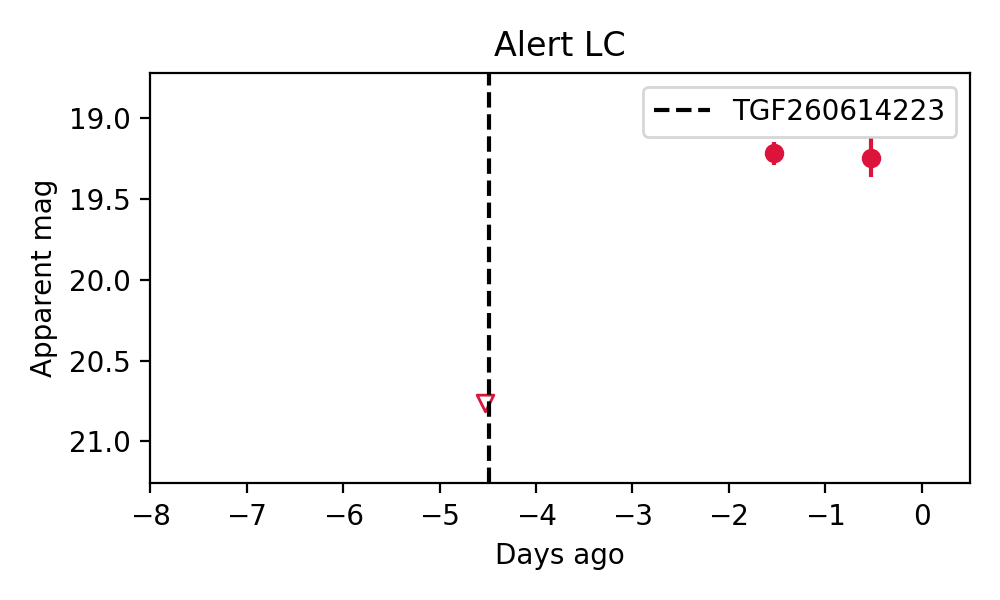
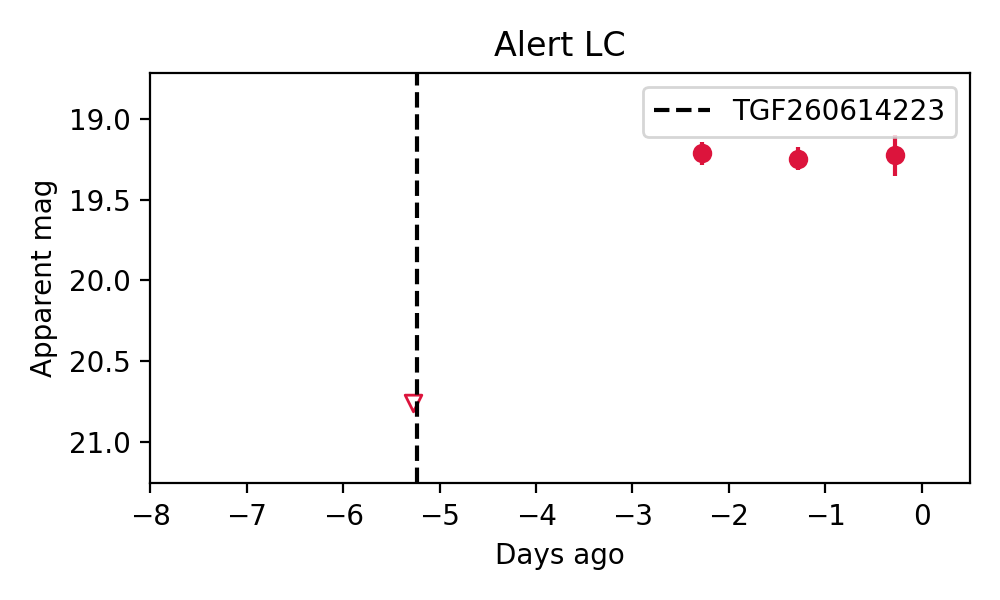
Update HTML from cron job on Fri Jun 19 07:27:29 AM EDT 2026

diff --git a/html/20260619_fastcand.html b/html/20260619_fastcand.html
@@ -1,1 +1,2 @@
-<!doctype html><html><head><title>SOURCE MARSHAL</title><style>                  * {                     box-sizing: border-box;                  }                /* Create two equal columns that floats next to each other */                .column {                         float: left;                         width: 50%;                         padding: 10px;                         #height: 220px; /* Should be removed. Only for demonstration */                }                /* Clear floats after the columns */                .row:after {                        content: "";                        display: table;                        clear: both;                }                /* Rounded corner definition */                #rcorners2 {                    border-radius: 15px;                    border: 2px solid #73AD21;                    padding: 15px;                     width: 80%;                }                table, th, td {                    border: 1px solid black;                    border-collapse: collapse;                }                th, td {                    padding: 5px;                }                th {                    text-align: right;                }                .boxed {                    width: 300px;                    border: 3px outset green;                    text-align: center;                    font-size: 20px;                    margin: 10px;                }                 </style></head><body><font size="5" color="green">Candidate List 20260619</font></br></br><a href=20260618_fastcand.html target="_blank"><font size="3" color="green">Previous Day</font></a>&nbsp;&nbsp;&nbsp;&nbsp;<a href=20260620_fastcand.html target="_blank"><font size="3" color="green">Next Day</font></a>&nbsp;&nbsp;&nbsp;&nbsp;<br><br><font size="4" color="green"><a href="#sec1">Section 1: New Sources (age<1d)</a></font>&nbsp;&nbsp;&nbsp;&nbsp;<button onclick="myfunc1()">Cosmological Afterglow</button><p id="demo1"></p><script>function myfunc1() {document.getElementById("demo1").innerHTML = "Sources detected for the first time last night. Matches with Fermi GRBs are shown in a green box."}</script><font size="4" color="green"><a href="#sec2">Section 2: Old (1-5d) sources observed last night</a></font></br><font size="1" color="white">placeholder</font></br><hr style="width:50%;text-align:left;margin-left:0"><br>
+<!doctype html><html><head><title>SOURCE MARSHAL</title><style>                  * {                     box-sizing: border-box;                  }                /* Create two equal columns that floats next to each other */                .column {                         float: left;                         width: 50%;                         padding: 10px;                         #height: 220px; /* Should be removed. Only for demonstration */                }                /* Clear floats after the columns */                .row:after {                        content: "";                        display: table;                        clear: both;                }                /* Rounded corner definition */                #rcorners2 {                    border-radius: 15px;                    border: 2px solid #73AD21;                    padding: 15px;                     width: 80%;                }                table, th, td {                    border: 1px solid black;                    border-collapse: collapse;                }                th, td {                    padding: 5px;                }                th {                    text-align: right;                }                .boxed {                    width: 300px;                    border: 3px outset green;                    text-align: center;                    font-size: 20px;                    margin: 10px;                }                 </style></head><body><font size="5" color="green">Candidate List 20260619</font></br></br><a href=20260618_fastcand.html target="_blank"><font size="3" color="green">Previous Day</font></a>&nbsp;&nbsp;&nbsp;&nbsp;<a href=20260620_fastcand.html target="_blank"><font size="3" color="green">Next Day</font></a>&nbsp;&nbsp;&nbsp;&nbsp;<br><br><font size="4" color="green"><a href="#sec1">Section 1: New Sources (age<1d)</a></font>&nbsp;&nbsp;&nbsp;&nbsp;<button onclick="myfunc1()">Cosmological Afterglow</button><p id="demo1"></p><script>function myfunc1() {document.getElementById("demo1").innerHTML = "Sources detected for the first time last night. Matches with Fermi GRBs are shown in a green box."}</script><font size="4" color="green"><a href="#sec2">Section 2: Old (1-5d) sources observed last night</a></font></br><font size="1" color="white">placeholder</font></br><hr style="width:50%;text-align:left;margin-left:0"><br><div id="sec1"></div><div class="boxed">Section 1: New Afterglow/FBOT Cands Last Night (4)</div><div id="ZTF26abcpsqw"></div>1. <a href="#ZTF26abcpsqw"><b><font size="3">ZTF26abcpsqw (Afterglow?)</font></b></a>&nbsp;&nbsp;&nbsp;&nbsp;<a href=#top>[Back to Top]</a>&nbsp;&nbsp;&nbsp;&nbsp;<a href=./html/ZTF26abcpsqw_announcement.txt>[Share]</a>&nbsp;&nbsp;&nbsp;&nbsp;<a href=./html/ZTF26abcpsqw_swifttoo.txt>[Trigger Swift]</a></br>&nbsp;&nbsp;&nbsp;&nbsp;[<a href="https://fritz.science/alerts/ztf/ZTF26abcpsqw" target="_blank">Fritz</a>]&nbsp;&nbsp;&nbsp;&nbsp;[<a href="https://lasair.roe.ac.uk/object/ZTF26abcpsqw" target="_blank">Lasair</a>]</br>RA, Dec: 218.7818, 13.50825&nbsp;&nbsp;&nbsp;&nbsp;14h35m7.63s, 13d30m29.71s</br>Galactic (l, b): 8.74945, 62.2284&nbsp;&nbsp;&nbsp;&nbsp;ext(g-r) = 0.023</br></br><img src="./ZTF26abcpsqw_triplet.png" height="200"><a href = http://ps1images.stsci.edu/cgi-bin/ps1cutouts?pos=218.781802[phone redacted]&filter=color&filter=g&filter=r&filter=i&filter=z&filter=y&filetypes=stack&auxiliary=data&size=240&output_size=240&verbose=0&autoscale=99.500000><img src="./ZTF26abcpsqw_ps1.png" height="200"></a><br><br>TESS: Sectors 50<br><br><br><br><br>PS1: 0 sources in 3 arcsec</br><br><b>LegacySurvey: 1 sources in 3 arcsec</b>&nbsp;&nbsp;&nbsp;&nbsp;Closest: d = 8.56 arcsec, 202.7 deg (east of north)</br>&nbsp;&nbsp;&nbsp;&nbsp;photoz=0.81 (68&#37; bounds 0.61, 1.05),                         type=PSF&nbsp;&nbsp;&nbsp;&nbsp;<b>peak abs mag = -24.93 (68&#37; bounds -24.2, -25.64)</b><br><img src="ZTF26abcpsqw_alert_lc.png" height="300"><br>Extinction-corrected gr color:<br>From alerts: 0.38 +/- 0.08 mag<br>Extinction-corrected gi color:<br>From alerts: 0.51 +/- 0.15 mag<br>Extinction-corrected ri color:<br>From alerts: 0.12 +/- 0.13 mag<br><b> Consistent with synchrotron, g-r>0!</b><br>Rise Rate:<br>g: 1.74 mag/day <br>r: 1.1 mag/day <br>i: 1.87 mag/day <br><br>Fade Rate:<br>g: -99 mag/day <br>r: 20.53 mag/day <br>i: -99 mag/day <br><br><br><div id="ZTF26abcqcat"></div>2. <a href="#ZTF26abcqcat"><b><font size="3">ZTF26abcqcat (Afterglow?)</font></b></a>&nbsp;&nbsp;&nbsp;&nbsp;<a href=#top>[Back to Top]</a>&nbsp;&nbsp;&nbsp;&nbsp;<a href=./html/ZTF26abcqcat_announcement.txt>[Share]</a>&nbsp;&nbsp;&nbsp;&nbsp;<a href=./html/ZTF26abcqcat_swifttoo.txt>[Trigger Swift]</a></br>&nbsp;&nbsp;&nbsp;&nbsp;[<a href="https://fritz.science/alerts/ztf/ZTF26abcqcat" target="_blank">Fritz</a>]&nbsp;&nbsp;&nbsp;&nbsp;[<a href="https://lasair.roe.ac.uk/object/ZTF26abcqcat" target="_blank">Lasair</a>]</br>RA, Dec: 234.91827, 10.21716&nbsp;&nbsp;&nbsp;&nbsp;15h39m40.38s, 10d13m1.77s</br>Galactic (l, b): 18.04033, 46.98562&nbsp;&nbsp;&nbsp;&nbsp;ext(g-r) = 0.049</br></br><img src="./ZTF26abcqcat_triplet.png" height="200"><a href = http://ps1images.stsci.edu/cgi-bin/ps1cutouts?pos=234.918268[phone redacted]&filter=color&filter=g&filter=r&filter=i&filter=z&filter=y&filetypes=stack&auxiliary=data&size=240&output_size=240&verbose=0&autoscale=99.500000><img src="./ZTF26abcqcat_ps1.png" height="200"></a><br><br>TESS: Sectors [ 51 117]<br><br><br><br><br>PS1: 0 sources in 3 arcsec</br><br><b>LegacySurvey: 1 sources in 3 arcsec</b>&nbsp;&nbsp;&nbsp;&nbsp;Closest: d = 2.69 arcsec, 186.6 deg (east of north)</br>&nbsp;&nbsp;&nbsp;&nbsp;photoz=0.07 (68&#37; bounds 0.03, 0.14),                         type=SER&nbsp;&nbsp;&nbsp;&nbsp;<b>peak abs mag = -17.57 (68&#37; bounds -15.48, -19.21)</b><br><img src="ZTF26abcqcat_alert_lc.png" height="300"><br>Extinction-corrected gr color:<br>From alerts: -0.02 +/- 0.2 mag<br><b> Consistent with synchrotron, g-r>0!</b><br>Rise Rate:<br>g: 1.08 mag/day <br>r: 0.5 mag/day <br>i: -99 mag/day <br><br>Fade Rate:<br>g: -99 mag/day <br>r: -99 mag/day <br>i: -99 mag/day <br><br><br><div id="ZTF26abcqqaq"></div>3. <a href="#ZTF26abcqqaq"><b><font size="3">ZTF26abcqqaq (Afterglow?)</font></b></a>&nbsp;&nbsp;&nbsp;&nbsp;<a href=#top>[Back to Top]</a>&nbsp;&nbsp;&nbsp;&nbsp;<a href=./html/ZTF26abcqqaq_announcement.txt>[Share]</a>&nbsp;&nbsp;&nbsp;&nbsp;<a href=./html/ZTF26abcqqaq_swifttoo.txt>[Trigger Swift]</a></br>&nbsp;&nbsp;&nbsp;&nbsp;[<a href="https://fritz.science/alerts/ztf/ZTF26abcqqaq" target="_blank">Fritz</a>]&nbsp;&nbsp;&nbsp;&nbsp;[<a href="https://lasair.roe.ac.uk/object/ZTF26abcqqaq" target="_blank">Lasair</a>]</br>RA, Dec: 221.72538, 11.09137&nbsp;&nbsp;&nbsp;&nbsp;14h46m54.09s, 11d 5m28.93s</br>Galactic (l, b): 7.9569, 58.49233&nbsp;&nbsp;&nbsp;&nbsp;ext(g-r) = 0.032</br></br><img src="./ZTF26abcqqaq_triplet.png" height="200"><a href = http://ps1images.stsci.edu/cgi-bin/ps1cutouts?pos=221.725385[phone redacted]&filter=color&filter=g&filter=r&filter=i&filter=z&filter=y&filetypes=stack&auxiliary=data&size=240&output_size=240&verbose=0&autoscale=99.500000><img src="./ZTF26abcqqaq_ps1.png" height="200"></a><br><br>TESS: Sectors 51<br><br><br><br><br>PS1: 0 sources in 3 arcsec</br><br><b>LegacySurvey: 1 sources in 3 arcsec</b>&nbsp;&nbsp;&nbsp;&nbsp;Closest: d = 7.92 arcsec, 291.6 deg (east of north)</br>&nbsp;&nbsp;&nbsp;&nbsp;photoz=1.21 (68&#37; bounds 0.99, 1.53),                         type=PSF&nbsp;&nbsp;&nbsp;&nbsp;<b>peak abs mag = -25.77 (68&#37; bounds -25.23, -26.4)</b><br><img src="ZTF26abcqqaq_alert_lc.png" height="300"><br>Extinction-corrected gr color:<br>From alerts: -0.36 +/- 0.12 mag<br>Extinction-corrected gi color:<br>From alerts: 0.75 +/- 0.14 mag<br>Extinction-corrected ri color:<br>From alerts: 1.11 +/- 0.16 mag<br><b> Consistent with synchrotron, g-r>0!</b><br>Rise Rate:<br>g: 1.24 mag/day <br>r: 0.55 mag/day <br>i: 1.47 mag/day <br><br>Fade Rate:<br>g: -99 mag/day <br>r: -99 mag/day <br>i: -99 mag/day <br><br><br><div id="ZTF26abcsbfe"></div>4. <a href="#ZTF26abcsbfe"><b><font size="3">ZTF26abcsbfe (Afterglow?)</font></b></a>&nbsp;&nbsp;&nbsp;&nbsp;<a href=#top>[Back to Top]</a>&nbsp;&nbsp;&nbsp;&nbsp;<a href=./html/ZTF26abcsbfe_announcement.txt>[Share]</a>&nbsp;&nbsp;&nbsp;&nbsp;<a href=./html/ZTF26abcsbfe_swifttoo.txt>[Trigger Swift]</a></br>&nbsp;&nbsp;&nbsp;&nbsp;[<a href="https://fritz.science/alerts/ztf/ZTF26abcsbfe" target="_blank">Fritz</a>]&nbsp;&nbsp;&nbsp;&nbsp;[<a href="https://lasair.roe.ac.uk/object/ZTF26abcsbfe" target="_blank">Lasair</a>]</br>RA, Dec: 268.48647, 1.18265&nbsp;&nbsp;&nbsp;&nbsp;17h53m56.75s,  1d10m57.55s</br>Galactic (l, b): 27.34156, 13.3141&nbsp;&nbsp;&nbsp;&nbsp;ext(g-r) = 0.468</br></br><img src="./ZTF26abcsbfe_triplet.png" height="200"><a href = http://ps1images.stsci.edu/cgi-bin/ps1cutouts?pos=268.486471[phone redacted]&filter=color&filter=g&filter=r&filter=i&filter=z&filter=y&filetypes=stack&auxiliary=data&size=240&output_size=240&verbose=0&autoscale=99.500000><img src="./ZTF26abcsbfe_ps1.png" height="200"></a><br><br>TESS: Sectors 80<br><br><br><br><br><b>PS1: 1 source in 3 arcsec</b>&nbsp;&nbsp;&nbsp;&nbsp;Closest: d = 7.06 arcsec&nbsp;&nbsp;&nbsp;&nbsp;photoz=0.87+/-0.43&nbsp;&nbsp;&nbsp;&nbsp;<b>peak abs mag = -25.34</b><br>LegacySurvey: 0 sources in 3 arcsec</br><br><img src="ZTF26abcsbfe_alert_lc.png" height="300"><br>Extinction-corrected gr color:<br>From alerts: 1.71 +/- 0.4 mag<br><b> Consistent with synchrotron, g-r>0!</b><br>Rise Rate:<br>g: -99 mag/day <br>r: 1.55 mag/day <br>i: -99 mag/day <br><br>Fade Rate:<br>g: -99 mag/day <br>r: -99 mag/day <br>i: -99 mag/day <br><br><br><br><br><br><div id="sec2"></div><div class="boxed">Section 2: Older Sources Observed Last Night (12)</div><div id="ZTF26abbktjk"></div>0. <a href="#ZTF26abblqfy"><b><font size="3">ZTF26abblqfy (Afterglow?)</font></b></a>&nbsp;&nbsp;&nbsp;&nbsp;<a href=#top>[Back to Top]</a>&nbsp;&nbsp;&nbsp;&nbsp;<a href=./html/ZTF26abblqfy_announcement.txt>[Share]</a>&nbsp;&nbsp;&nbsp;&nbsp;<a href=./html/ZTF26abblqfy_swifttoo.txt>[Trigger Swift]</a></br>&nbsp;&nbsp;&nbsp;&nbsp;[<a href="https://fritz.science/alerts/ztf/ZTF26abblqfy" target="_blank">Fritz</a>]&nbsp;&nbsp;&nbsp;&nbsp;[<a href="https://lasair.roe.ac.uk/object/ZTF26abblqfy" target="_blank">Lasair</a>]</br>RA, Dec: 243.79434, 42.68999&nbsp;&nbsp;&nbsp;&nbsp;16h15m10.64s, 42d41m23.96s</br>Galactic (l, b): 67.43099, 46.17283&nbsp;&nbsp;&nbsp;&nbsp;ext(g-r) = 0.017</br></br><img src="./ZTF26abblqfy_triplet.png" height="200"><a href = http://ps1images.stsci.edu/cgi-bin/ps1cutouts?pos=243.794338[phone redacted]&filter=color&filter=g&filter=r&filter=i&filter=z&filter=y&filetypes=stack&auxiliary=data&size=240&output_size=240&verbose=0&autoscale=99.500000><img src="./ZTF26abblqfy_ps1.png" height="200"></a><a href = http://legacysurvey.org/viewer?ra=243.794338&dec=[phone redacted]&zoom=16&layer=ls-dr10><img src="ZTF26abblqfy_ls.png" height="200"></a></br><br><br>TESS: Sectors [ 24  25  51  52  78 117]<br><br>NED (10 arcsec):Found NED spec-z: z=0.06; <b>peak abs mag = -18.22</b><br>DESI (10 arcsec):Found DESI spec-z: z=0.06; <b>peak abs mag = -18.22</b><br><br>PS1: 0 sources in 3 arcsec</br><br><b>LegacySurvey: 1 sources in 3 arcsec</b>&nbsp;&nbsp;&nbsp;&nbsp;Closest: d = 5.65 arcsec, 69.1 deg (east of north)</br>&nbsp;&nbsp;&nbsp;&nbsp;photoz=0.05 (68&#37; bounds 0.04, 0.06),                         type=SER&nbsp;&nbsp;&nbsp;&nbsp;<b>peak abs mag = -17.75 (68&#37; bounds -17.15, -18.27)</b><br><img src="ZTF26abblqfy_alert_lc.png" height="300"><br>Extinction-corrected gr color:<br>From alerts: 0.16 +/- 0.11 mag<br><b> Consistent with synchrotron, g-r>0!</b><br>Rise Rate:<br>g: 0.78 mag/day <br>r: 0.7 mag/day <br>i: -99 mag/day <br><br>Fade Rate:<br>g: -99 mag/day <br>r: -99 mag/day <br>i: -99 mag/day <br><br><br><div id="ZTF26abblqfy"></div>1. <a href="#ZTF26abcddvj"><b><font size="3">ZTF26abcddvj (Afterglow?)</font></b></a>&nbsp;&nbsp;&nbsp;&nbsp;<a href=#top>[Back to Top]</a>&nbsp;&nbsp;&nbsp;&nbsp;<a href=./html/ZTF26abcddvj_announcement.txt>[Share]</a>&nbsp;&nbsp;&nbsp;&nbsp;<a href=./html/ZTF26abcddvj_swifttoo.txt>[Trigger Swift]</a></br>&nbsp;&nbsp;&nbsp;&nbsp;[<a href="https://fritz.science/alerts/ztf/ZTF26abcddvj" target="_blank">Fritz</a>]&nbsp;&nbsp;&nbsp;&nbsp;[<a href="https://lasair.roe.ac.uk/object/ZTF26abcddvj" target="_blank">Lasair</a>]</br>RA, Dec: 211.19355, 33.08729&nbsp;&nbsp;&nbsp;&nbsp;14h 4m46.45s, 33d 5m14.25s</br>Galactic (l, b): 57.98828, 73.08653&nbsp;&nbsp;&nbsp;&nbsp;ext(g-r) = 0.016</br></br><img src="./ZTF26abcddvj_triplet.png" height="200"><a href = http://ps1images.stsci.edu/cgi-bin/ps1cutouts?pos=211.193555[phone redacted]&filter=color&filter=g&filter=r&filter=i&filter=z&filter=y&filetypes=stack&auxiliary=data&size=240&output_size=240&verbose=0&autoscale=99.500000><img src="./ZTF26abcddvj_ps1.png" height="200"></a><br><br>TESS: Sectors [23 50 77]<br><br>NED (10 arcsec):Found NED spec-z: z=0.05; <b>peak abs mag = -17.03</b><br><br><br>PS1: 0 sources in 3 arcsec</br><br><b>LegacySurvey: 1 sources in 3 arcsec</b>&nbsp;&nbsp;&nbsp;&nbsp;Closest: d = 0.92 arcsec, 22.4 deg (east of north)</br>&nbsp;&nbsp;&nbsp;&nbsp;photoz=0.03 (68&#37; bounds 0.03, 0.04),                         type=SER&nbsp;&nbsp;&nbsp;&nbsp;<b>peak abs mag = -15.92 (68&#37; bounds -15.49, -16.31)</b><br><img src="ZTF26abcddvj_alert_lc.png" height="300"><br>Extinction-corrected gr color:<br>From alerts: 0.0 +/- 0.26 mag<br><b> Consistent with synchrotron, g-r>0!</b><br>Rise Rate:<br>g: 0.25 mag/day <br>r: 0.6 mag/day <br>i: -99 mag/day <br><br>Fade Rate:<br>g: -99 mag/day <br>r: -99 mag/day <br>i: -99 mag/day <br><br><br><div id="ZTF26abblsak"></div>2. <a href="#ZTF26abcfltk"><b><font size="3">ZTF26abcfltk (FBOT?)</font></b></a>&nbsp;&nbsp;&nbsp;&nbsp;<a href=#top>[Back to Top]</a>&nbsp;&nbsp;&nbsp;&nbsp;<a href=./html/ZTF26abcfltk_announcement.txt>[Share]</a>&nbsp;&nbsp;&nbsp;&nbsp;<a href=./html/ZTF26abcfltk_swifttoo.txt>[Trigger Swift]</a></br>&nbsp;&nbsp;&nbsp;&nbsp;[<a href="https://fritz.science/alerts/ztf/ZTF26abcfltk" target="_blank">Fritz</a>]&nbsp;&nbsp;&nbsp;&nbsp;[<a href="https://lasair.roe.ac.uk/object/ZTF26abcfltk" target="_blank">Lasair</a>]</br>RA, Dec: 263.4156, 4.37686&nbsp;&nbsp;&nbsp;&nbsp;17h33m39.74s,  4d22m36.68s</br>Galactic (l, b): 27.86131, 19.28074&nbsp;&nbsp;&nbsp;&nbsp;ext(g-r) = 0.198</br></br><img src="./ZTF26abcfltk_triplet.png" height="200"><a href = http://ps1images.stsci.edu/cgi-bin/ps1cutouts?pos=263.415602[phone redacted]&filter=color&filter=g&filter=r&filter=i&filter=z&filter=y&filetypes=stack&auxiliary=data&size=240&output_size=240&verbose=0&autoscale=99.500000><img src="./ZTF26abcfltk_ps1.png" height="200"></a><a href = http://legacysurvey.org/viewer?ra=263.415602&dec=[phone redacted]&zoom=16&layer=ls-dr10><img src="ZTF26abcfltk_ls.png" height="200"></a></br><br><br>TESS: Sectors 118<br><br><br><br><br><b>PS1: 1 source in 3 arcsec</b>&nbsp;&nbsp;&nbsp;&nbsp;Closest: d = 4.73 arcsec&nbsp;&nbsp;&nbsp;&nbsp;photoz=0.21+/-0.14&nbsp;&nbsp;&nbsp;&nbsp;<b>peak abs mag = -22.56</b><br>LegacySurvey: 0 sources in 3 arcsec</br><br><img src="ZTF26abcfltk_alert_lc.png" height="300"><br>Extinction-corrected gr color:<br>From alerts: -0.06 +/- 0.06 mag<br>Extinction-corrected gi color:<br>From alerts: -0.3 +/- 0.04 mag<br>Extinction-corrected ri color:<br>From alerts: -0.24 +/- 0.06 mag<br><br>Rise Rate:<br>g: 0.34 mag/day <br>r: 0.43 mag/day <br>i: 0.37 mag/day <br><br>Fade Rate:<br>g: -99 mag/day <br>r: -99 mag/day <br>i: -99 mag/day <br><br><br><div id="ZTF26abbpzpt"></div>3. <a href="#ZTF26abcgajg"><b><font size="3">ZTF26abcgajg (Afterglow?)</font></b></a>&nbsp;&nbsp;&nbsp;&nbsp;<a href=#top>[Back to Top]</a>&nbsp;&nbsp;&nbsp;&nbsp;<a href=./html/ZTF26abcgajg_announcement.txt>[Share]</a>&nbsp;&nbsp;&nbsp;&nbsp;<a href=./html/ZTF26abcgajg_swifttoo.txt>[Trigger Swift]</a></br>&nbsp;&nbsp;&nbsp;&nbsp;[<a href="https://fritz.science/alerts/ztf/ZTF26abcgajg" target="_blank">Fritz</a>]&nbsp;&nbsp;&nbsp;&nbsp;[<a href="https://lasair.roe.ac.uk/object/ZTF26abcgajg" target="_blank">Lasair</a>]</br>RA, Dec: 286.18668, 25.0423&nbsp;&nbsp;&nbsp;&nbsp;19h 4m44.80s, 25d 2m32.26s</br>Galactic (l, b): 56.8262, 8.40762&nbsp;&nbsp;&nbsp;&nbsp;ext(g-r) = 0.34</br></br><img src="./ZTF26abcgajg_triplet.png" height="200"><a href = http://ps1images.stsci.edu/cgi-bin/ps1cutouts?pos=286.186681[phone redacted]&filter=color&filter=g&filter=r&filter=i&filter=z&filter=y&filetypes=stack&auxiliary=data&size=240&output_size=240&verbose=0&autoscale=99.500000><img src="./ZTF26abcgajg_ps1.png" height="200"></a><br><br>TESS: Sectors [ 14  40  53  54  80  81 119]<br><br><br><br><br>PS1: 0 sources in 3 arcsec</br><br>LegacySurvey: 0 sources in 3 arcsec</br><br><img src="ZTF26abcgajg_alert_lc.png" height="300"><br>Extinction-corrected gr color:<br>From alerts: 0.13 +/- 0.14 mag<br><b> Consistent with synchrotron, g-r>0!</b><br>Rise Rate:<br>g: 0.59 mag/day <br>r: 0.65 mag/day <br>i: -99 mag/day <br><br>Fade Rate:<br>g: -99 mag/day <br>r: -99 mag/day <br>i: -99 mag/day <br><br><br><div id="ZTF26abbwuqn"></div>4. <a href="#ZTF26abchgag"><b><font size="3">ZTF26abchgag (Afterglow?FBOT?)</font></b></a>&nbsp;&nbsp;&nbsp;&nbsp;<a href=#top>[Back to Top]</a>&nbsp;&nbsp;&nbsp;&nbsp;<a href=./html/ZTF26abchgag_announcement.txt>[Share]</a>&nbsp;&nbsp;&nbsp;&nbsp;<a href=./html/ZTF26abchgag_swifttoo.txt>[Trigger Swift]</a></br>&nbsp;&nbsp;&nbsp;&nbsp;[<a href="https://fritz.science/alerts/ztf/ZTF26abchgag" target="_blank">Fritz</a>]&nbsp;&nbsp;&nbsp;&nbsp;[<a href="https://lasair.roe.ac.uk/object/ZTF26abchgag" target="_blank">Lasair</a>]</br>RA, Dec: 276.18926, -10.66786&nbsp;&nbsp;&nbsp;&nbsp;18h24m45.42s, -10d-40m-4.29s</br>Galactic (l, b): 20.40892, 0.98438&nbsp;&nbsp;&nbsp;&nbsp;ext(g-r) = 4.323</br></br><img src="./ZTF26abchgag_triplet.png" height="200"><a href = http://ps1images.stsci.edu/cgi-bin/ps1cutouts?pos=276.189256-10.667859&filter=color&filter=g&filter=r&filter=i&filter=z&filter=y&filetypes=stack&auxiliary=data&size=240&output_size=240&verbose=0&autoscale=99.500000><img src="./ZTF26abchgag_ps1.png" height="200"></a><br><br>TESS: Sectors [ 80 118]<br><br><br><br><br><b>PS1: 1 source in 3 arcsec</b>&nbsp;&nbsp;&nbsp;&nbsp;Closest: d = 0.44 arcsec&nbsp;&nbsp;&nbsp;&nbsp;photoz=0.61+/-0.36&nbsp;&nbsp;&nbsp;&nbsp;<b>peak abs mag = -31.47</b><br>LegacySurvey: 0 sources in 3 arcsec</br><br><img src="ZTF26abchgag_alert_lc.png" height="300"><br>Extinction-corrected gi color:<br>From alerts: -4.17 +/- 99 mag<br>Extinction-corrected ri color:<br>From alerts: -0.17 +/- 99 mag<br><br>Rise Rate:<br>g: -99 mag/day <br>r: -99 mag/day <br>i: 1.22 mag/day <br><br>Fade Rate:<br>g: -99 mag/day <br>r: -99 mag/day <br>i: 1.8 mag/day <br><br><br><div id="ZTF26abbzhve"></div>5. <a href="#ZTF26abchxlu"><b><font size="3">ZTF26abchxlu (FBOT?)</font></b></a>&nbsp;&nbsp;&nbsp;&nbsp;<a href=#top>[Back to Top]</a>&nbsp;&nbsp;&nbsp;&nbsp;<a href=./html/ZTF26abchxlu_announcement.txt>[Share]</a>&nbsp;&nbsp;&nbsp;&nbsp;<a href=./html/ZTF26abchxlu_swifttoo.txt>[Trigger Swift]</a></br>&nbsp;&nbsp;&nbsp;&nbsp;[<a href="https://fritz.science/alerts/ztf/ZTF26abchxlu" target="_blank">Fritz</a>]&nbsp;&nbsp;&nbsp;&nbsp;[<a href="https://lasair.roe.ac.uk/object/ZTF26abchxlu" target="_blank">Lasair</a>]</br>RA, Dec: 161.43289, 25.53894&nbsp;&nbsp;&nbsp;&nbsp;10h45m43.89s, 25d32m20.18s</br>Galactic (l, b): 208.96583, 61.86246&nbsp;&nbsp;&nbsp;&nbsp;ext(g-r) = 0.045</br></br><img src="./ZTF26abchxlu_triplet.png" height="200"><a href = http://ps1images.stsci.edu/cgi-bin/ps1cutouts?pos=161.432891[phone redacted]&filter=color&filter=g&filter=r&filter=i&filter=z&filter=y&filetypes=stack&auxiliary=data&size=240&output_size=240&verbose=0&autoscale=99.500000><img src="./ZTF26abchxlu_ps1.png" height="200"></a><a href = http://legacysurvey.org/viewer?ra=161.432891&dec=[phone redacted]&zoom=16&layer=ls-dr10><img src="ZTF26abchxlu_ls.png" height="200"></a></br><br><br>TESS: Sectors [22 48]<br>SDSS (<15 kpc):Found SDSS phot-z: z=0.61; <b>peak abs mag = -23.71</b><br><br><br><br>PS1: 0 sources in 3 arcsec</br><br><b>LegacySurvey: 1 sources in 3 arcsec</b>&nbsp;&nbsp;&nbsp;&nbsp;Closest: d = 0.29 arcsec, 195.2 deg (east of north)</br>&nbsp;&nbsp;&nbsp;&nbsp;photoz=0.41 (68&#37; bounds 0.14, 0.8),                         type=EXP&nbsp;&nbsp;&nbsp;&nbsp;<b>peak abs mag = -22.58 (68&#37; bounds -19.9, -24.36)</b><br><img src="ZTF26abchxlu_alert_lc.png" height="300"><br><br>Rise Rate:<br>g: -99 mag/day <br>r: 0.52 mag/day <br>i: -99 mag/day <br><br>Fade Rate:<br>g: -99 mag/day <br>r: -99 mag/day <br>i: -99 mag/day <br><br><br><div id="ZTF26abbztxn"></div>6. <a href="#ZTF26abcjsxy"><b><font size="3">ZTF26abcjsxy (Afterglow?)</font></b></a>&nbsp;&nbsp;&nbsp;&nbsp;<a href=#top>[Back to Top]</a>&nbsp;&nbsp;&nbsp;&nbsp;<a href=./html/ZTF26abcjsxy_announcement.txt>[Share]</a>&nbsp;&nbsp;&nbsp;&nbsp;<a href=./html/ZTF26abcjsxy_swifttoo.txt>[Trigger Swift]</a></br>&nbsp;&nbsp;&nbsp;&nbsp;[<a href="https://fritz.science/alerts/ztf/ZTF26abcjsxy" target="_blank">Fritz</a>]&nbsp;&nbsp;&nbsp;&nbsp;[<a href="https://lasair.roe.ac.uk/object/ZTF26abcjsxy" target="_blank">Lasair</a>]</br>RA, Dec: 272.14718, -6.94267&nbsp;&nbsp;&nbsp;&nbsp;18h 8m35.32s, -6d-56m-33.60s</br>Galactic (l, b): 21.81188, 6.26334&nbsp;&nbsp;&nbsp;&nbsp;ext(g-r) = 1.274</br></br><img src="./ZTF26abcjsxy_triplet.png" height="200"><a href = http://ps1images.stsci.edu/cgi-bin/ps1cutouts?pos=272.147175-6.942666&filter=color&filter=g&filter=r&filter=i&filter=z&filter=y&filetypes=stack&auxiliary=data&size=240&output_size=240&verbose=0&autoscale=99.500000><img src="./ZTF26abcjsxy_ps1.png" height="200"></a><br><br>TESS: Sectors [ 80 118]<br><br><br><br><br><b>PS1: 1 source in 3 arcsec</b>&nbsp;&nbsp;&nbsp;&nbsp;Closest: d = 3.31 arcsec&nbsp;&nbsp;&nbsp;&nbsp;photoz=0.86+/-0.06&nbsp;&nbsp;&nbsp;&nbsp;<b>peak abs mag = -27.13</b><br>LegacySurvey: 0 sources in 3 arcsec</br><br><img src="ZTF26abcjsxy_alert_lc.png" height="300"><br>Extinction-corrected gi color:<br>From alerts: -0.15 +/- 99 mag<br>Extinction-corrected ri color:<br>From alerts: -0.88 +/- 99 mag<br><br>Rise Rate:<br>g: -99 mag/day <br>r: -99 mag/day <br>i: 0.75 mag/day <br><br>Fade Rate:<br>g: -99 mag/day <br>r: -99 mag/day <br>i: 0.51 mag/day <br><br><br><div id="ZTF26abccbpe"></div>7. <a href="#ZTF26abcqesk"><b><font size="3">ZTF26abcqesk (Afterglow?FBOT?)</font></b></a>&nbsp;&nbsp;&nbsp;&nbsp;<a href=#top>[Back to Top]</a>&nbsp;&nbsp;&nbsp;&nbsp;<a href=./html/ZTF26abcqesk_announcement.txt>[Share]</a>&nbsp;&nbsp;&nbsp;&nbsp;<a href=./html/ZTF26abcqesk_swifttoo.txt>[Trigger Swift]</a></br>&nbsp;&nbsp;&nbsp;&nbsp;[<a href="https://fritz.science/alerts/ztf/ZTF26abcqesk" target="_blank">Fritz</a>]&nbsp;&nbsp;&nbsp;&nbsp;[<a href="https://lasair.roe.ac.uk/object/ZTF26abcqesk" target="_blank">Lasair</a>]</br>RA, Dec: 252.31065, 55.09313&nbsp;&nbsp;&nbsp;&nbsp;16h49m14.56s, 55d 5m35.27s</br>Galactic (l, b): 83.404, 39.25723&nbsp;&nbsp;&nbsp;&nbsp;ext(g-r) = 0.015</br></br><img src="./ZTF26abcqesk_triplet.png" height="200"><a href = http://ps1images.stsci.edu/cgi-bin/ps1cutouts?pos=252.310647[phone redacted]&filter=color&filter=g&filter=r&filter=i&filter=z&filter=y&filetypes=stack&auxiliary=data&size=240&output_size=240&verbose=0&autoscale=99.500000><img src="./ZTF26abcqesk_ps1.png" height="200"></a><br><br>TESS: Sectors [ 16  19  23  24  25  26  49  50  52  53  56  57  59  73  76  77  79  80
+  83  84  86 117 118]<br><br><br><br><br>PS1: 0 sources in 3 arcsec</br><br><b>LegacySurvey: 1 sources in 3 arcsec</b>&nbsp;&nbsp;&nbsp;&nbsp;Closest: d = 0.67 arcsec, 156.4 deg (east of north)</br>&nbsp;&nbsp;&nbsp;&nbsp;photoz=0.37 (68&#37; bounds 0.25, 0.54),                         type=REX&nbsp;&nbsp;&nbsp;&nbsp;<b>peak abs mag = -21.5 (68&#37; bounds -20.48, -22.47)</b><br><img src="ZTF26abcqesk_alert_lc.png" height="300"><br>Extinction-corrected gr color:<br>From alerts: -0.09 +/- 0.4 mag<br><b> Consistent with synchrotron, g-r>0!</b><br>Rise Rate:<br>g: -99 mag/day <br>r: 1.13 mag/day <br>i: -99 mag/day <br><br>Fade Rate:<br>g: -99 mag/day <br>r: -99 mag/day <br>i: -99 mag/day <br><br><br><div id="ZTF26abccule"></div>8. <a href="#ZTF26abcrgcv"><b><font size="3">ZTF26abcrgcv (Afterglow?)</font></b></a>&nbsp;&nbsp;&nbsp;&nbsp;<a href=#top>[Back to Top]</a>&nbsp;&nbsp;&nbsp;&nbsp;<a href=./html/ZTF26abcrgcv_announcement.txt>[Share]</a>&nbsp;&nbsp;&nbsp;&nbsp;<a href=./html/ZTF26abcrgcv_swifttoo.txt>[Trigger Swift]</a></br>&nbsp;&nbsp;&nbsp;&nbsp;[<a href="https://fritz.science/alerts/ztf/ZTF26abcrgcv" target="_blank">Fritz</a>]&nbsp;&nbsp;&nbsp;&nbsp;[<a href="https://lasair.roe.ac.uk/object/ZTF26abcrgcv" target="_blank">Lasair</a>]</br>RA, Dec: 255.11274, 4.23857&nbsp;&nbsp;&nbsp;&nbsp;17h 0m27.06s,  4d14m18.84s</br>Galactic (l, b): 23.54342, 26.54591&nbsp;&nbsp;&nbsp;&nbsp;ext(g-r) = 0.104</br></br><img src="./ZTF26abcrgcv_triplet.png" height="200"><a href = http://ps1images.stsci.edu/cgi-bin/ps1cutouts?pos=255.112742[phone redacted]&filter=color&filter=g&filter=r&filter=i&filter=z&filter=y&filetypes=stack&auxiliary=data&size=240&output_size=240&verbose=0&autoscale=99.500000><img src="./ZTF26abcrgcv_ps1.png" height="200"></a><br><br>TESS: Sectors 117<br><br><br><br><br>PS1: 0 sources in 3 arcsec</br><br><b>LegacySurvey: 1 sources in 3 arcsec</b>&nbsp;&nbsp;&nbsp;&nbsp;Closest: d = 4.37 arcsec, 71.9 deg (east of north)</br>&nbsp;&nbsp;&nbsp;&nbsp;photoz=0.03 (68&#37; bounds 0.01, 0.11),                         type=PSF&nbsp;&nbsp;&nbsp;&nbsp;<b>peak abs mag = -16.55 (68&#37; bounds -14.22, -19.26)</b><br><img src="ZTF26abcrgcv_alert_lc.png" height="300"><br>Extinction-corrected gr color:<br>From alerts: 0.77 +/- 99 mag<br>Extinction-corrected gi color:<br>From alerts: 2.18 +/- 0.39 mag<br>Extinction-corrected ri color:<br>From alerts: 1.41 +/- 99 mag<br><b> Consistent with synchrotron, g-r>0!</b><br>Rise Rate:<br>g: -99 mag/day <br>r: -99 mag/day <br>i: 1.17 mag/day <br><br>Fade Rate:<br>g: -99 mag/day <br>r: -99 mag/day <br>i: -99 mag/day <br><br><br><div id="ZTF26abcddvj"></div>9. <a href="#ZTF26abcrier"><b><font size="3">ZTF26abcrier (Afterglow?)</font></b></a>&nbsp;&nbsp;&nbsp;&nbsp;<a href=#top>[Back to Top]</a>&nbsp;&nbsp;&nbsp;&nbsp;<a href=./html/ZTF26abcrier_announcement.txt>[Share]</a>&nbsp;&nbsp;&nbsp;&nbsp;<a href=./html/ZTF26abcrier_swifttoo.txt>[Trigger Swift]</a></br>&nbsp;&nbsp;&nbsp;&nbsp;[<a href="https://fritz.science/alerts/ztf/ZTF26abcrier" target="_blank">Fritz</a>]&nbsp;&nbsp;&nbsp;&nbsp;[<a href="https://lasair.roe.ac.uk/object/ZTF26abcrier" target="_blank">Lasair</a>]</br>RA, Dec: 266.60507, -2.85764&nbsp;&nbsp;&nbsp;&nbsp;17h46m25.22s, -2d-51m-27.49s</br>Galactic (l, b): 22.77125, 13.06566&nbsp;&nbsp;&nbsp;&nbsp;ext(g-r) = 0.791</br></br><img src="./ZTF26abcrier_triplet.png" height="200"><a href = http://ps1images.stsci.edu/cgi-bin/ps1cutouts?pos=266.605074-2.857636&filter=color&filter=g&filter=r&filter=i&filter=z&filter=y&filetypes=stack&auxiliary=data&size=240&output_size=240&verbose=0&autoscale=99.500000><img src="./ZTF26abcrier_ps1.png" height="200"></a><br><br>TESS: Sectors 118<br><br><br><br><br>PS1: 0 sources in 3 arcsec</br><br>LegacySurvey: 0 sources in 3 arcsec</br><br><img src="ZTF26abcrier_alert_lc.png" height="300"><br>Extinction-corrected gi color:<br>From alerts: 0.45 +/- 99 mag<br>Extinction-corrected ri color:<br>From alerts: 0.8 +/- 99 mag<br><br>Rise Rate:<br>g: -99 mag/day <br>r: -99 mag/day <br>i: 0.6 mag/day <br><br>Fade Rate:<br>g: -99 mag/day <br>r: -99 mag/day <br>i: 0.59 mag/day <br><br><br><div id="ZTF26abcfltk"></div>10. <a href="#ZTF26abcrogc"><b><font size="3">ZTF26abcrogc (FBOT?)</font></b></a>&nbsp;&nbsp;&nbsp;&nbsp;<a href=#top>[Back to Top]</a>&nbsp;&nbsp;&nbsp;&nbsp;<a href=./html/ZTF26abcrogc_announcement.txt>[Share]</a>&nbsp;&nbsp;&nbsp;&nbsp;<a href=./html/ZTF26abcrogc_swifttoo.txt>[Trigger Swift]</a></br>&nbsp;&nbsp;&nbsp;&nbsp;[<a href="https://fritz.science/alerts/ztf/ZTF26abcrogc" target="_blank">Fritz</a>]&nbsp;&nbsp;&nbsp;&nbsp;[<a href="https://lasair.roe.ac.uk/object/ZTF26abcrogc" target="_blank">Lasair</a>]</br>RA, Dec: 336.18628, -1.98784&nbsp;&nbsp;&nbsp;&nbsp;22h24m44.71s, -1d-59m-16.22s</br>Galactic (l, b): 62.20807, -46.81994&nbsp;&nbsp;&nbsp;&nbsp;ext(g-r) = 0.084</br></br><img src="./ZTF26abcrogc_triplet.png" height="200"><a href = http://ps1images.stsci.edu/cgi-bin/ps1cutouts?pos=336.186280-1.987838&filter=color&filter=g&filter=r&filter=i&filter=z&filter=y&filetypes=stack&auxiliary=data&size=240&output_size=240&verbose=0&autoscale=99.500000><img src="./ZTF26abcrogc_ps1.png" height="200"></a><br><br>TESS: Sectors [42 55 92]<br><br><br><br><br>PS1: 0 sources in 3 arcsec</br><br><b>LegacySurvey: 1 sources in 3 arcsec</b>&nbsp;&nbsp;&nbsp;&nbsp;Closest: d = 0.96 arcsec, 17.9 deg (east of north)</br>&nbsp;&nbsp;&nbsp;&nbsp;photoz=1.38 (68&#37; bounds 1.0, 1.67),                         type=REX&nbsp;&nbsp;&nbsp;&nbsp;<b>peak abs mag = -26.47 (68&#37; bounds -25.61, -26.98)</b><br><img src="ZTF26abcrogc_alert_lc.png" height="300"><br>Extinction-corrected gr color:<br>From alerts: -0.13 +/- 99 mag<br>Extinction-corrected ri color:<br>From alerts: 0.54 +/- 99 mag<br><br>Rise Rate:<br>g: -99 mag/day <br>r: -99 mag/day <br>i: 1.3 mag/day <br><br>Fade Rate:<br>g: -99 mag/day <br>r: -99 mag/day <br>i: -99 mag/day <br><br><br><div id="ZTF26abcgajg"></div>11. <a href="#ZTF26abcsdfq"><b><font size="3">ZTF26abcsdfq (FBOT?)</font></b></a>&nbsp;&nbsp;&nbsp;&nbsp;<a href=#top>[Back to Top]</a>&nbsp;&nbsp;&nbsp;&nbsp;<a href=./html/ZTF26abcsdfq_announcement.txt>[Share]</a>&nbsp;&nbsp;&nbsp;&nbsp;<a href=./html/ZTF26abcsdfq_swifttoo.txt>[Trigger Swift]</a></br>&nbsp;&nbsp;&nbsp;&nbsp;[<a href="https://fritz.science/alerts/ztf/ZTF26abcsdfq" target="_blank">Fritz</a>]&nbsp;&nbsp;&nbsp;&nbsp;[<a href="https://lasair.roe.ac.uk/object/ZTF26abcsdfq" target="_blank">Lasair</a>]</br>RA, Dec: 264.3286, 21.69351&nbsp;&nbsp;&nbsp;&nbsp;17h37m18.87s, 21d41m36.65s</br>Galactic (l, b): 45.37048, 25.5545&nbsp;&nbsp;&nbsp;&nbsp;ext(g-r) = 0.078</br></br><img src="./ZTF26abcsdfq_triplet.png" height="200"><a href = http://ps1images.stsci.edu/cgi-bin/ps1cutouts?pos=264.328605[phone redacted]&filter=color&filter=g&filter=r&filter=i&filter=z&filter=y&filetypes=stack&auxiliary=data&size=240&output_size=240&verbose=0&autoscale=99.500000><img src="./ZTF26abcsdfq_ps1.png" height="200"></a><br><br>TESS: Sectors [ 25  26  52  53  79  80 118]<br><br><br><br><br>PS1: 0 sources in 3 arcsec</br><br><b>LegacySurvey: 1 sources in 3 arcsec</b>&nbsp;&nbsp;&nbsp;&nbsp;Closest: d = 1.65 arcsec, 256.4 deg (east of north)</br>&nbsp;&nbsp;&nbsp;&nbsp;photoz=0.34 (68&#37; bounds 0.1, 2.75),                         type=PSF&nbsp;&nbsp;&nbsp;&nbsp;<b>peak abs mag = -21.44 (68&#37; bounds -18.46, -26.91)</b><br><img src="ZTF26abcsdfq_alert_lc.png" height="300"><br>Extinction-corrected gr color:<br>From alerts: 1.27 +/- 99 mag<br><br>Rise Rate:<br>g: -99 mag/day <br>r: 0.89 mag/day <br>i: -99 mag/day <br><br>Fade Rate:<br>g: -99 mag/day <br>r: -99 mag/day <br>i: -99 mag/day <br><br><br><br>